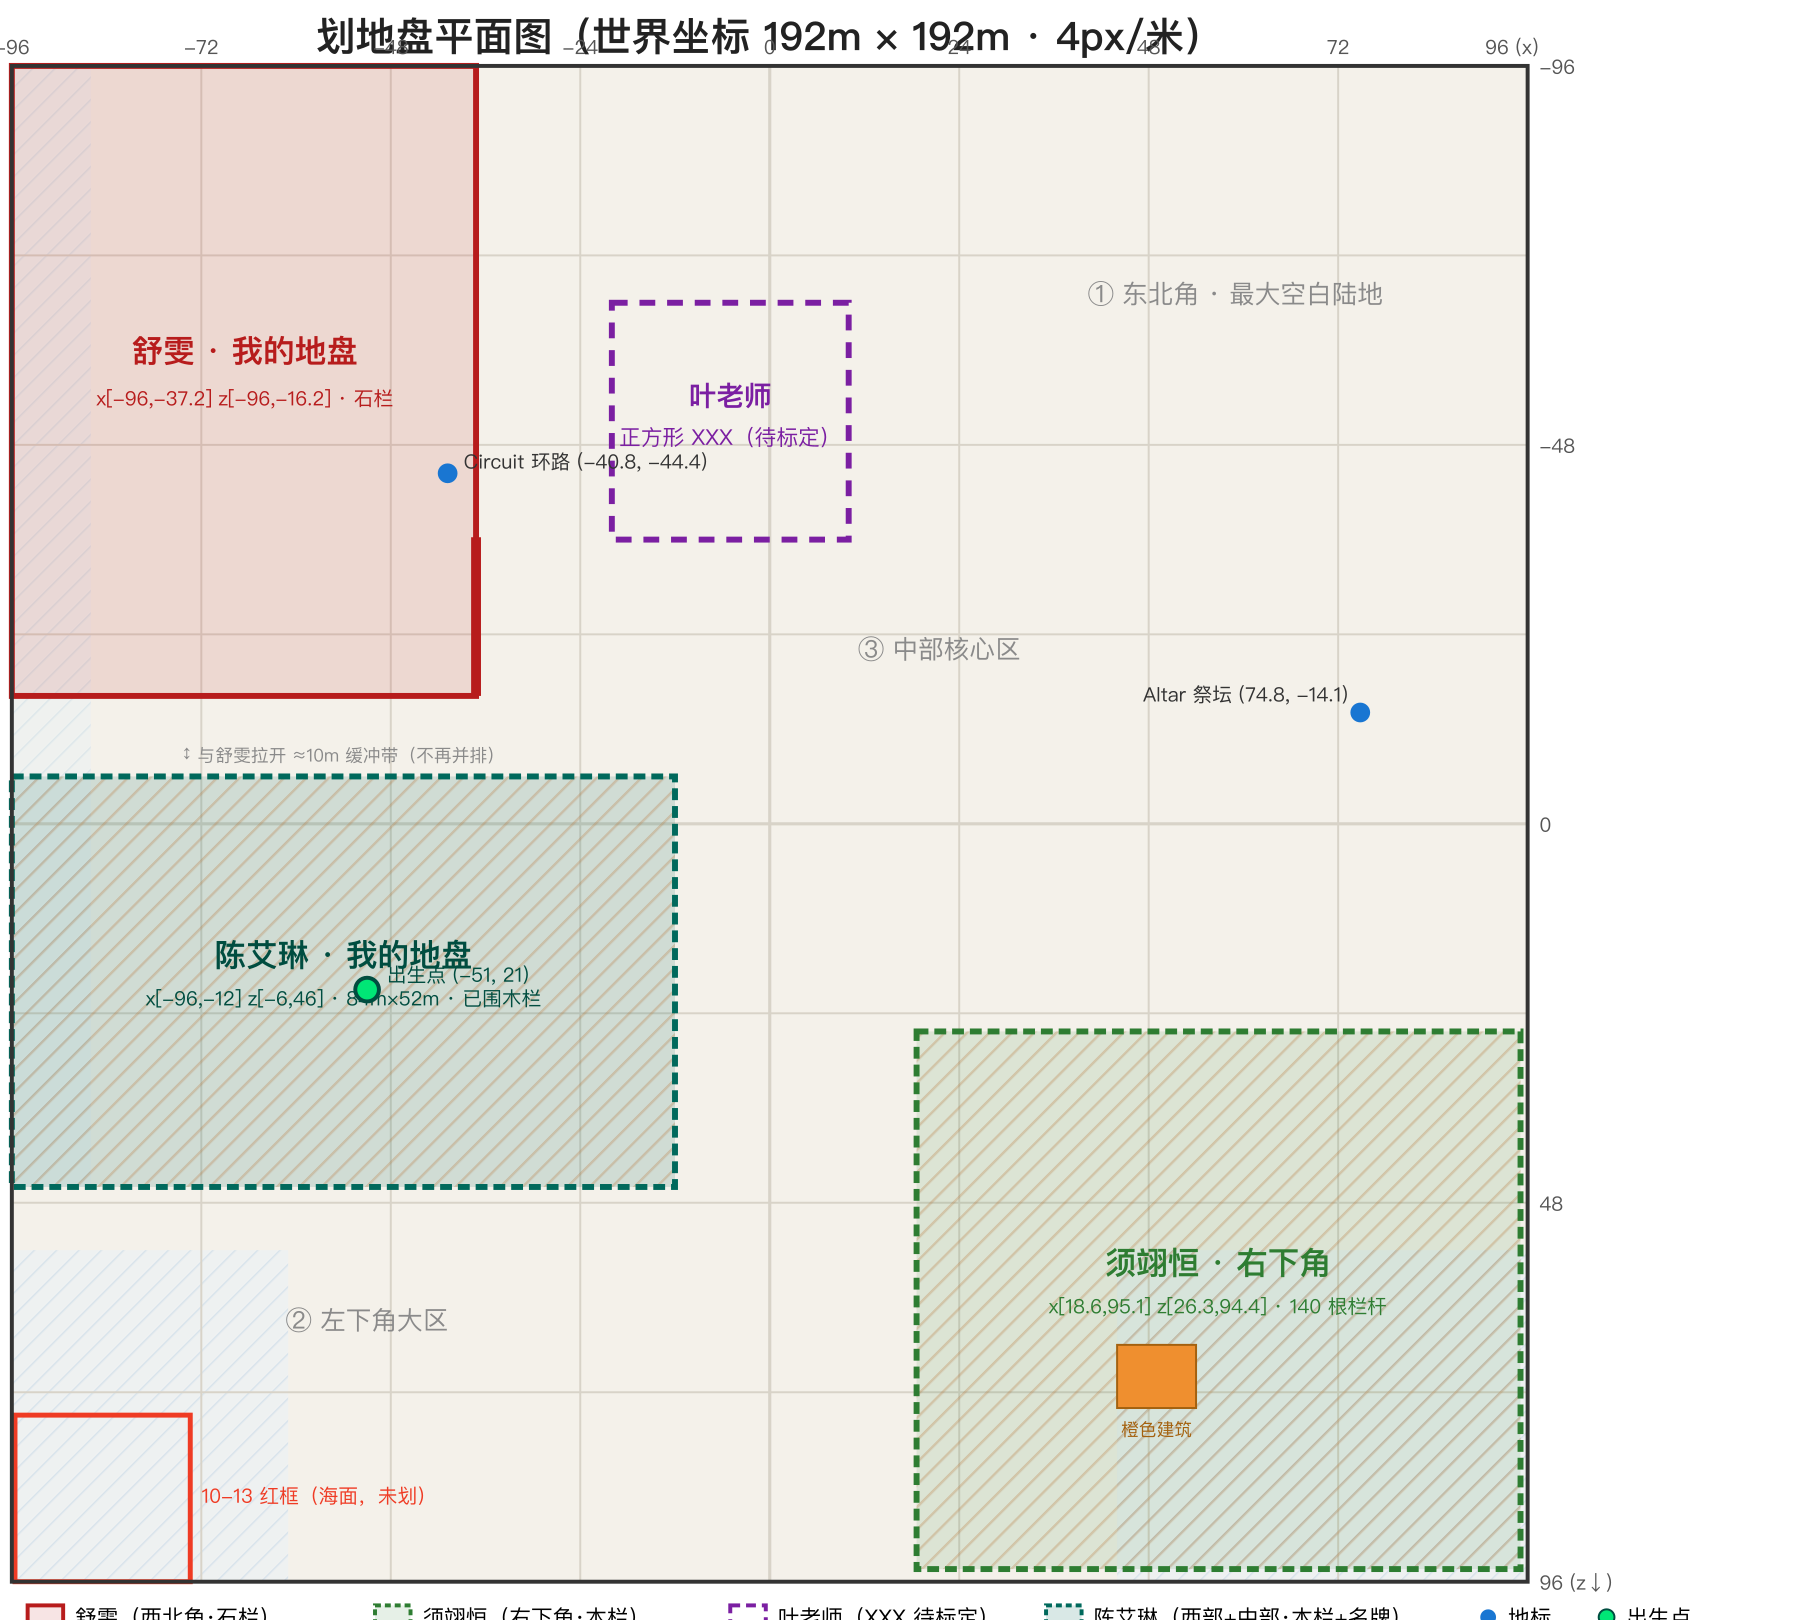
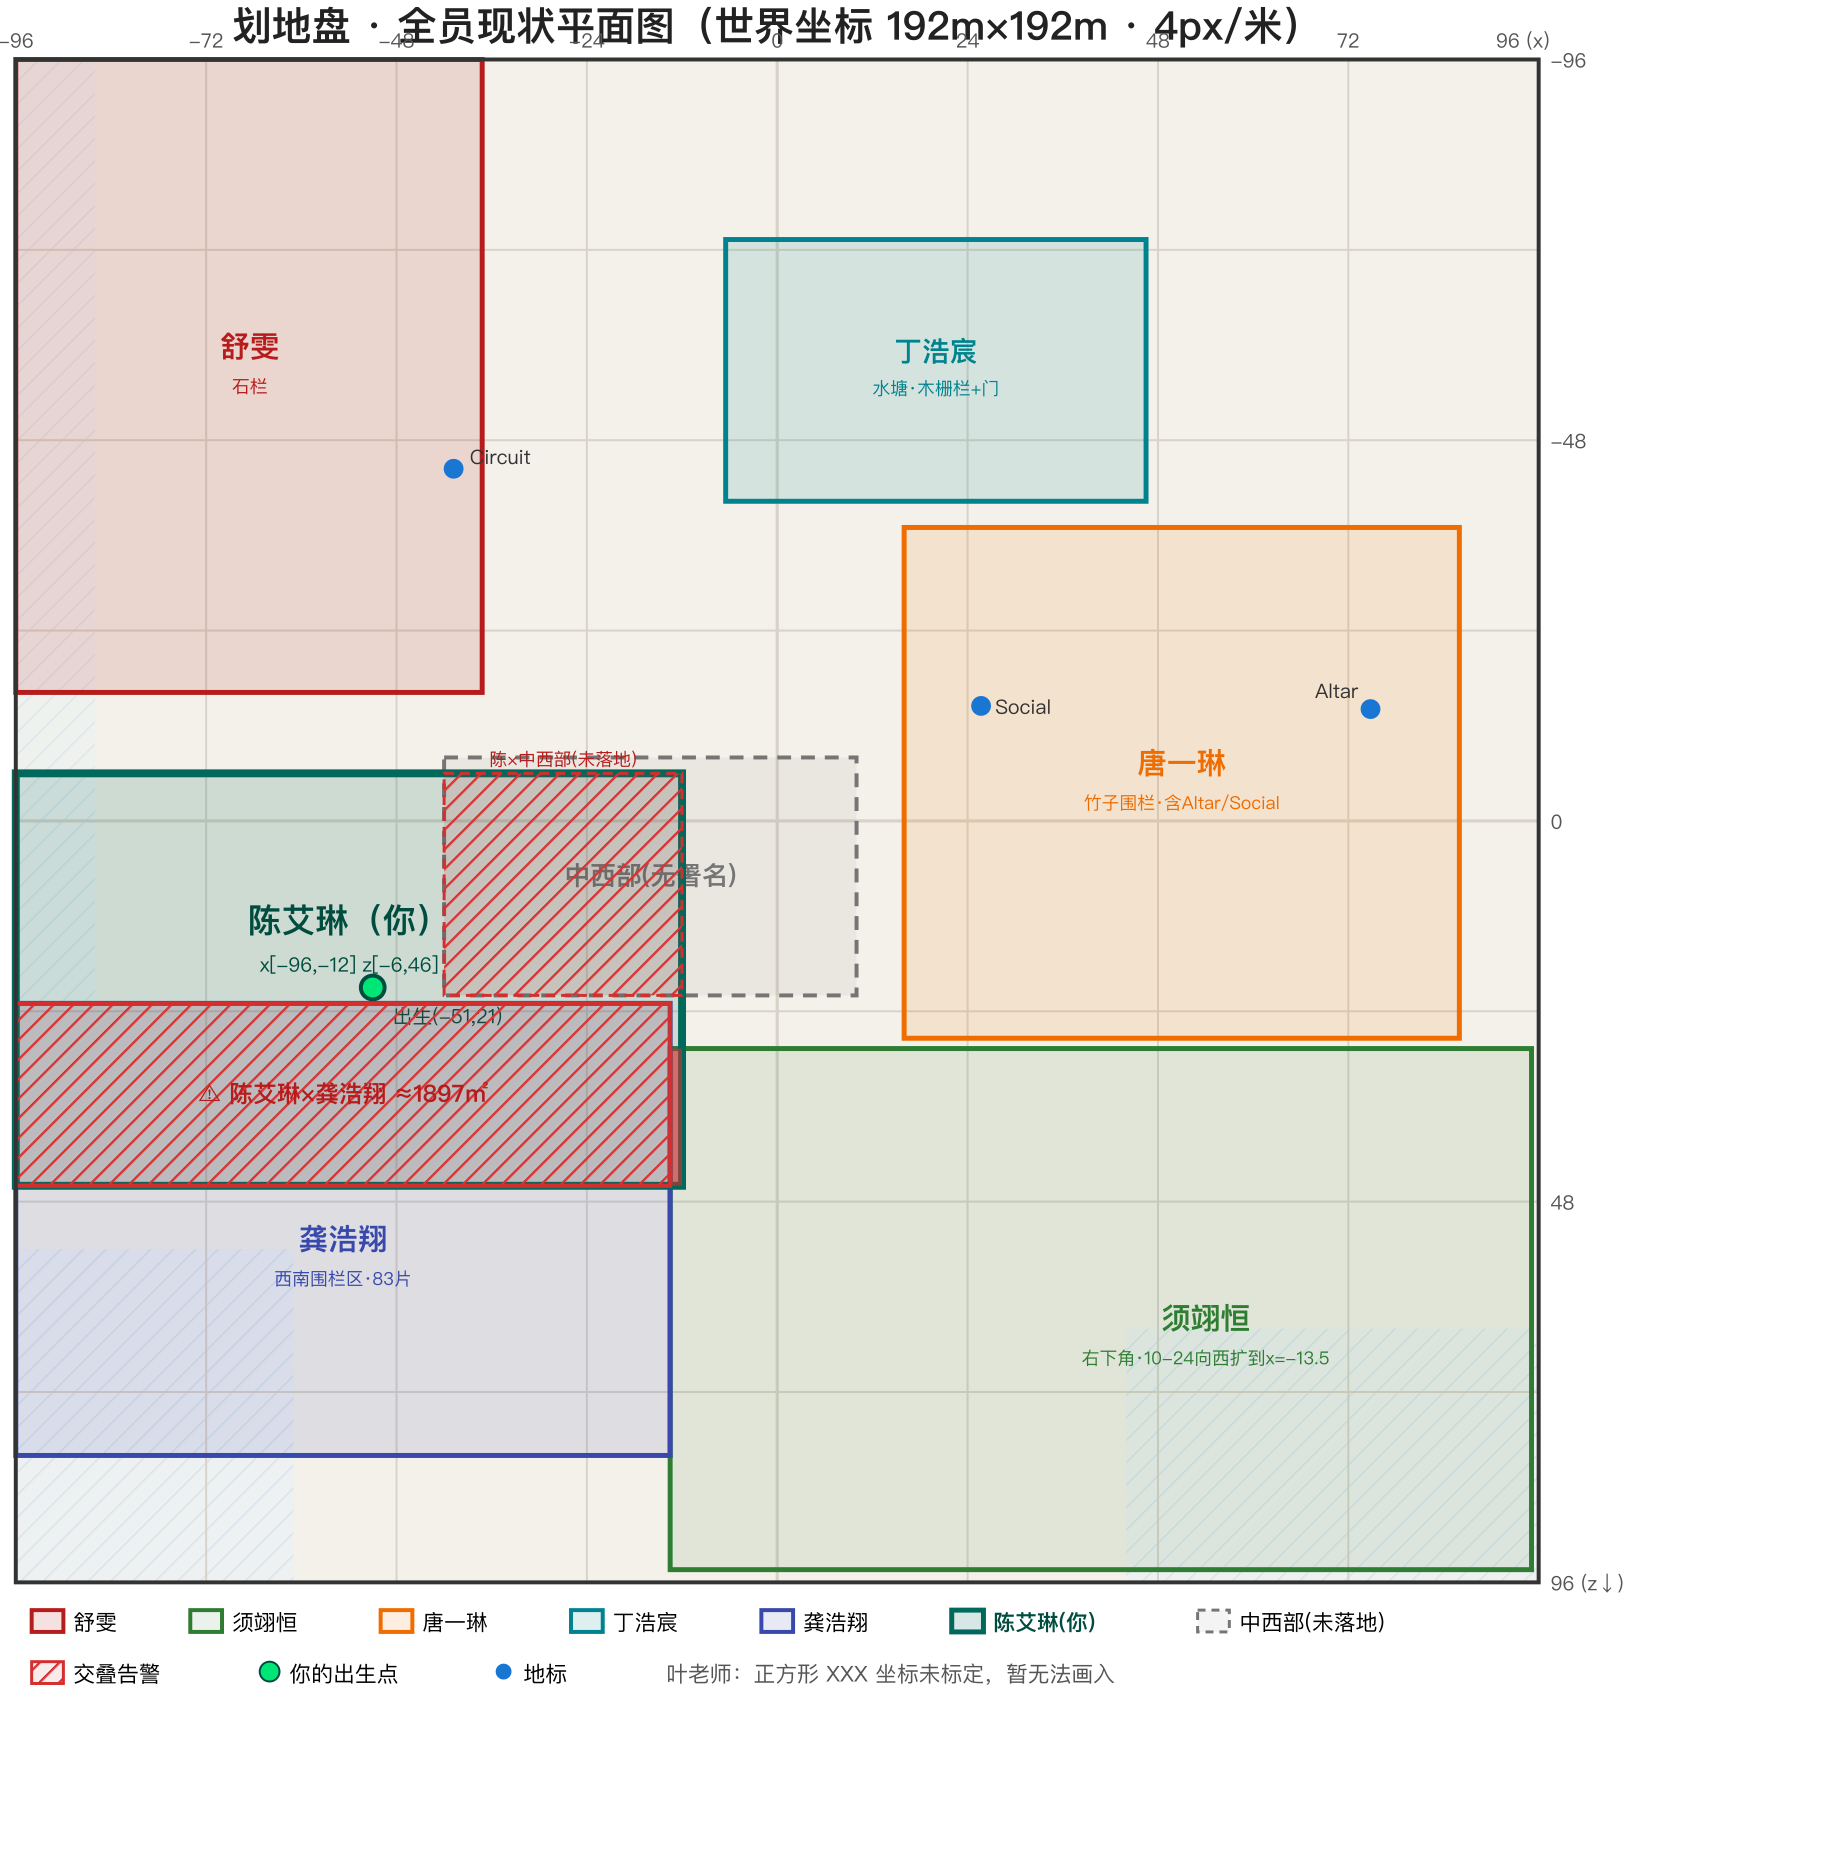
docs(划地盘): 陈艾琳地块入登记册，复检改列3处交叠；更新全员现状平面图
- 登记册补陈艾琳行 x[-96,-12] z[-6,46]，出生点 territoryChenAilin
- 复检表由「0 处交叠」更正为 3 处：陈×龚浩翔≈1897㎡、陈×须翊恒≈26㎡、陈×中西部≈840㎡(纸面)
- territory-map.svg/png 重绘为全员现状版（红斜纹标注交叠告警区）

diff --git a/docs/划地盘.md b/docs/划地盘.md
@@ -13,6 +13,7 @@
 | 唐一琳 | 16 ～ 86 | -37 ～ 27.4 | 中部，竹子围栏（有物理碰撞），北边已扩到 z = -37 |
 | 丁浩宸 | -6.5 ～ 46.5 | -73.3 ～ -40.3 | 偏南水塘地块，木栅栏 + 4.2m 门 |
 | 龚浩翔 | -96 ～ -13.5 | 23 ～ 80 | 西南侧围栏区，83 片栏杆（strict） |
+| 陈艾琳 | -96 ～ -12 | -6 ～ 46 | 西部中段窄条 + 中部偏西，木栏 + 地图名牌，出生点 `territoryChenAilin` (-51, 21)；**与龚浩翔交叠 ≈1897 m²，待收边**（见下面复检） |
 | 中西部 | -42 ～ 10 | -8 ～ 22 | **无署名**，只在清单里出现过，未落地代码 |
 | 叶老师 | XXX | XXX | 只写了「画了一个正方形」，坐标一直没补，无法判定 |
 
@@ -28,16 +29,21 @@
 4. **登记前自检**：把新矩形的 x、z 区间与登记册逐块求交，只要 `x 交叠宽度 > 0 且 z 交叠高度 > 0` 就是不合格，必须改到不相交为止。
 5. **登记三要素**：世界坐标范围（min/max）、换算依据、代码落点（哪个文件生效），缺一不算登记成功。
 
-## 按规则复检：2026-10-24 后 0 处交叠
+## 按规则复检：2026-10-25（陈艾琳地块入册后新增 3 处交叠）
 
 | 交叠双方 | 交叠区域 | 面积 | 收边方向 |
 | --- | --- | --- | --- |
 | ~~须翊恒 × 唐一琳~~ | x [18.6, 86]，z [26.3, 27.4] | ≈ 74 m²（67.4 × 1.1） | **已消除**（10-24）：唐一琳竹篱 10-15 先建，须翊恒改范围时北界 26.3 → 28.7，留 1.3m 缝 |
 | ~~须翊恒 × 龚浩翔~~ | x [-18.6, -13.5]，z [28.7, 80] | ≈ 262 m²（5.1 × 51.3） | **已消除**（10-24）：须翊恒手绘西界到 -18.6，撞龚浩翔 10-21 新围栏区；他先划，按规则 2 收边到 x = -13.5 共边 |
+| **陈艾琳 × 龚浩翔** | x [-96, -13.5]，z [23, 46] | ≈ 1897 m²（82.5 × 23） | **待处理**：龚浩翔 10-21 先划且已落地围栏，陈艾琳同日放大地块（南界扩到 46、东界扩到 -12）压进其北半块；按规则 2 应由后建围栏方收边，或按规则 3 协商 |
+| **陈艾琳 × 须翊恒** | x [-13.5, -12]，z [28.7, 46] | ≈ 26 m² 纸面条 | **待处理**：细条交叠，双方任一收边 1.5m 即可消除 |
+| **陈艾琳 × 中西部** | x [-42, -12]，z [-6, 22] | ≈ 840 m² | 纸面交叠：中西部无署名、未落地代码，暂无实际冲突；若日后落地需先让位 |
 
 > 龚浩翔 10-21 已把围栏区整体南移并东扩到 x ∈ [-96, -13.5]、z ∈ [23, 80]，原先与舒雯、中西部的两处交叠已消除。
 >
 > 其余相邻关系都不算冲突：唐一琳南界 z = -37 与丁浩宸北界 z = -40.3 留 3.3m 缝；唐一琳西界 x = 16 与中西部东界 x = 10 留 6m 缝；丁浩宸与所有人都隔开。叶老师的正方形补上坐标后同样要过一遍这张表。
+>
+> 全员现状平面图：`docs/territory-map.svg` / `territory-map.png`（红斜纹为交叠告警区）。
 
 ## 2026-10-13：左下角红框的坐标标定
 
